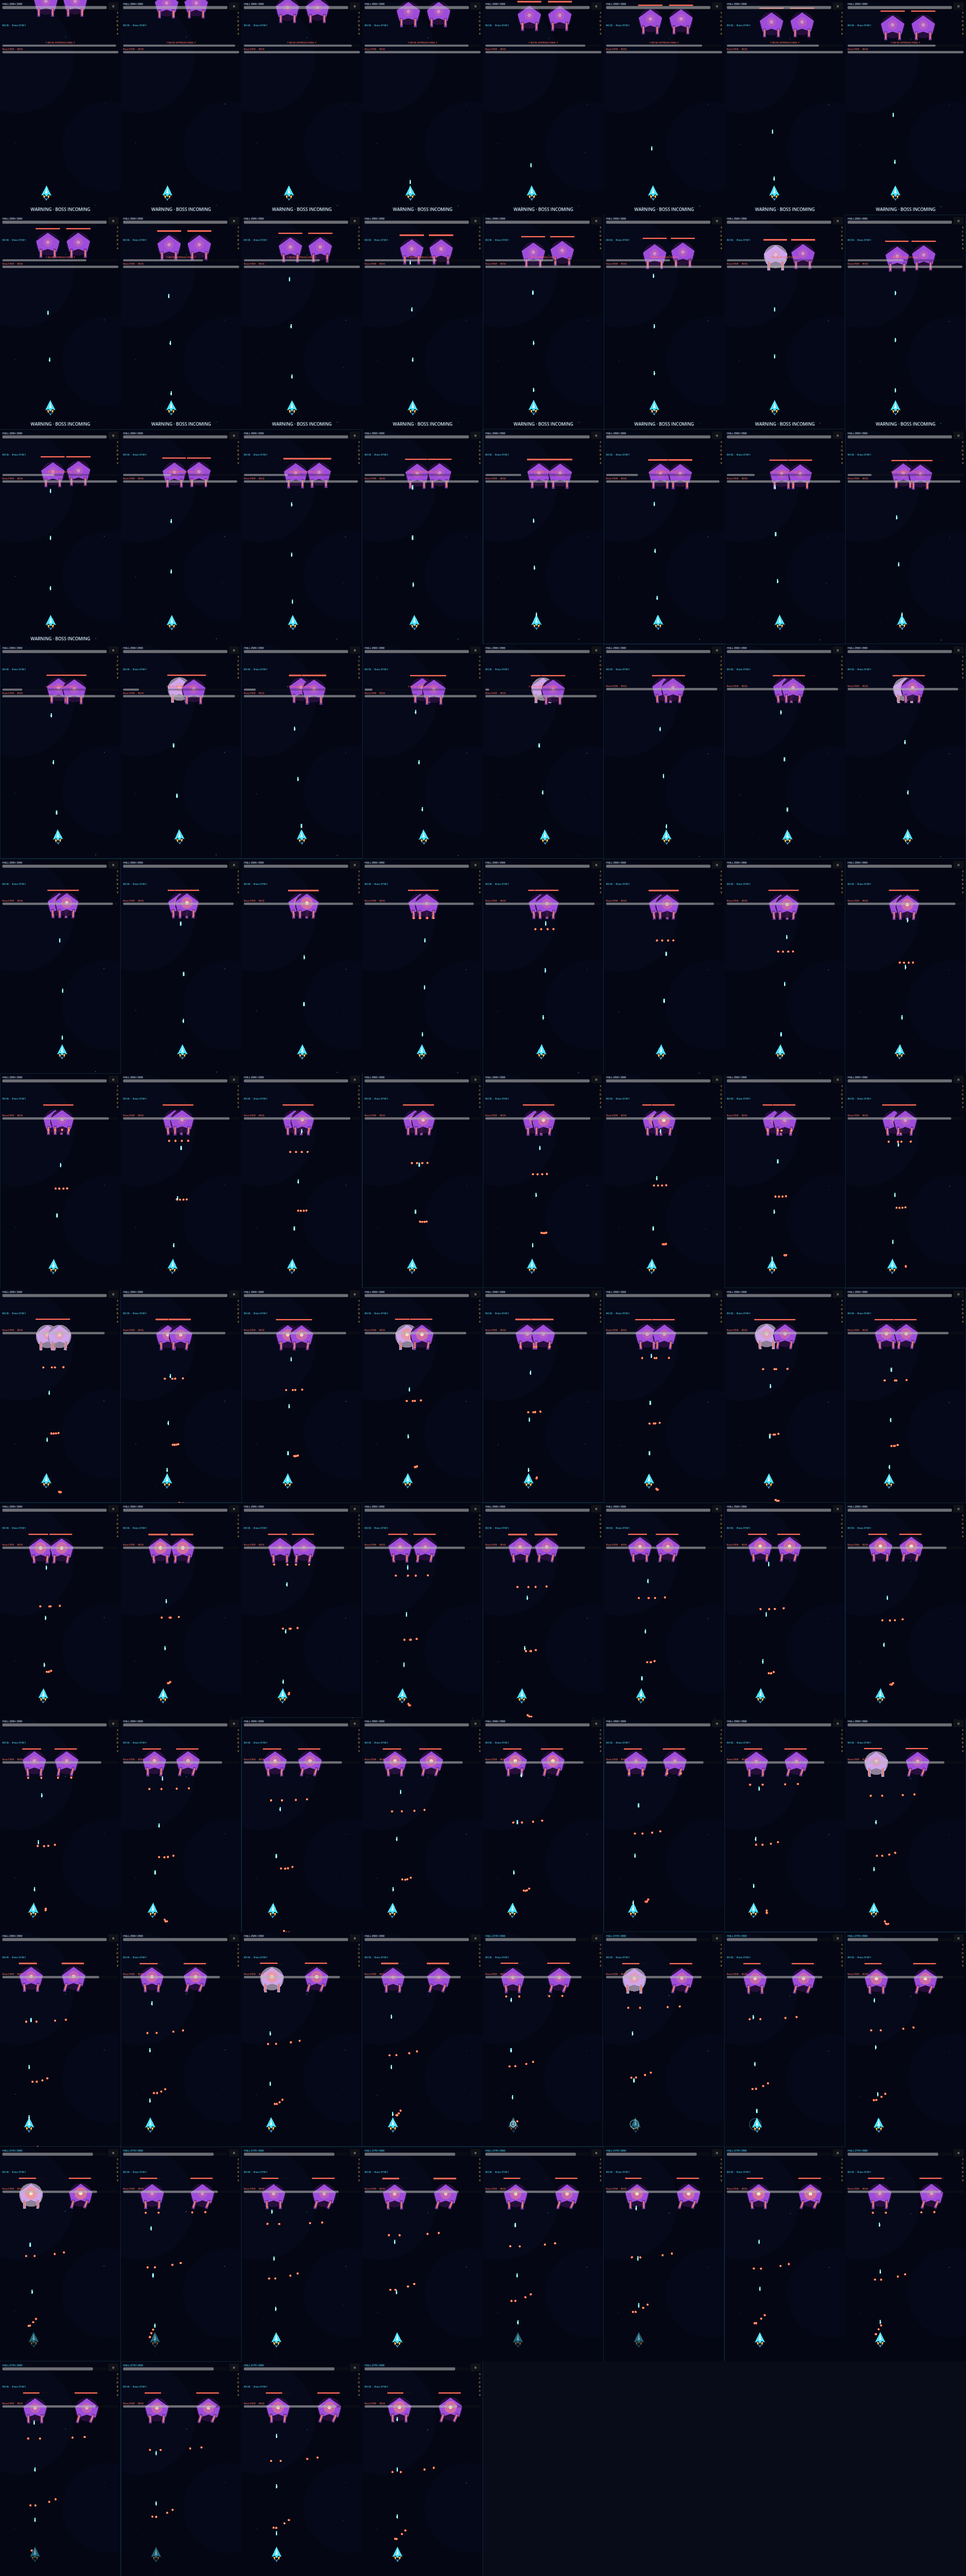
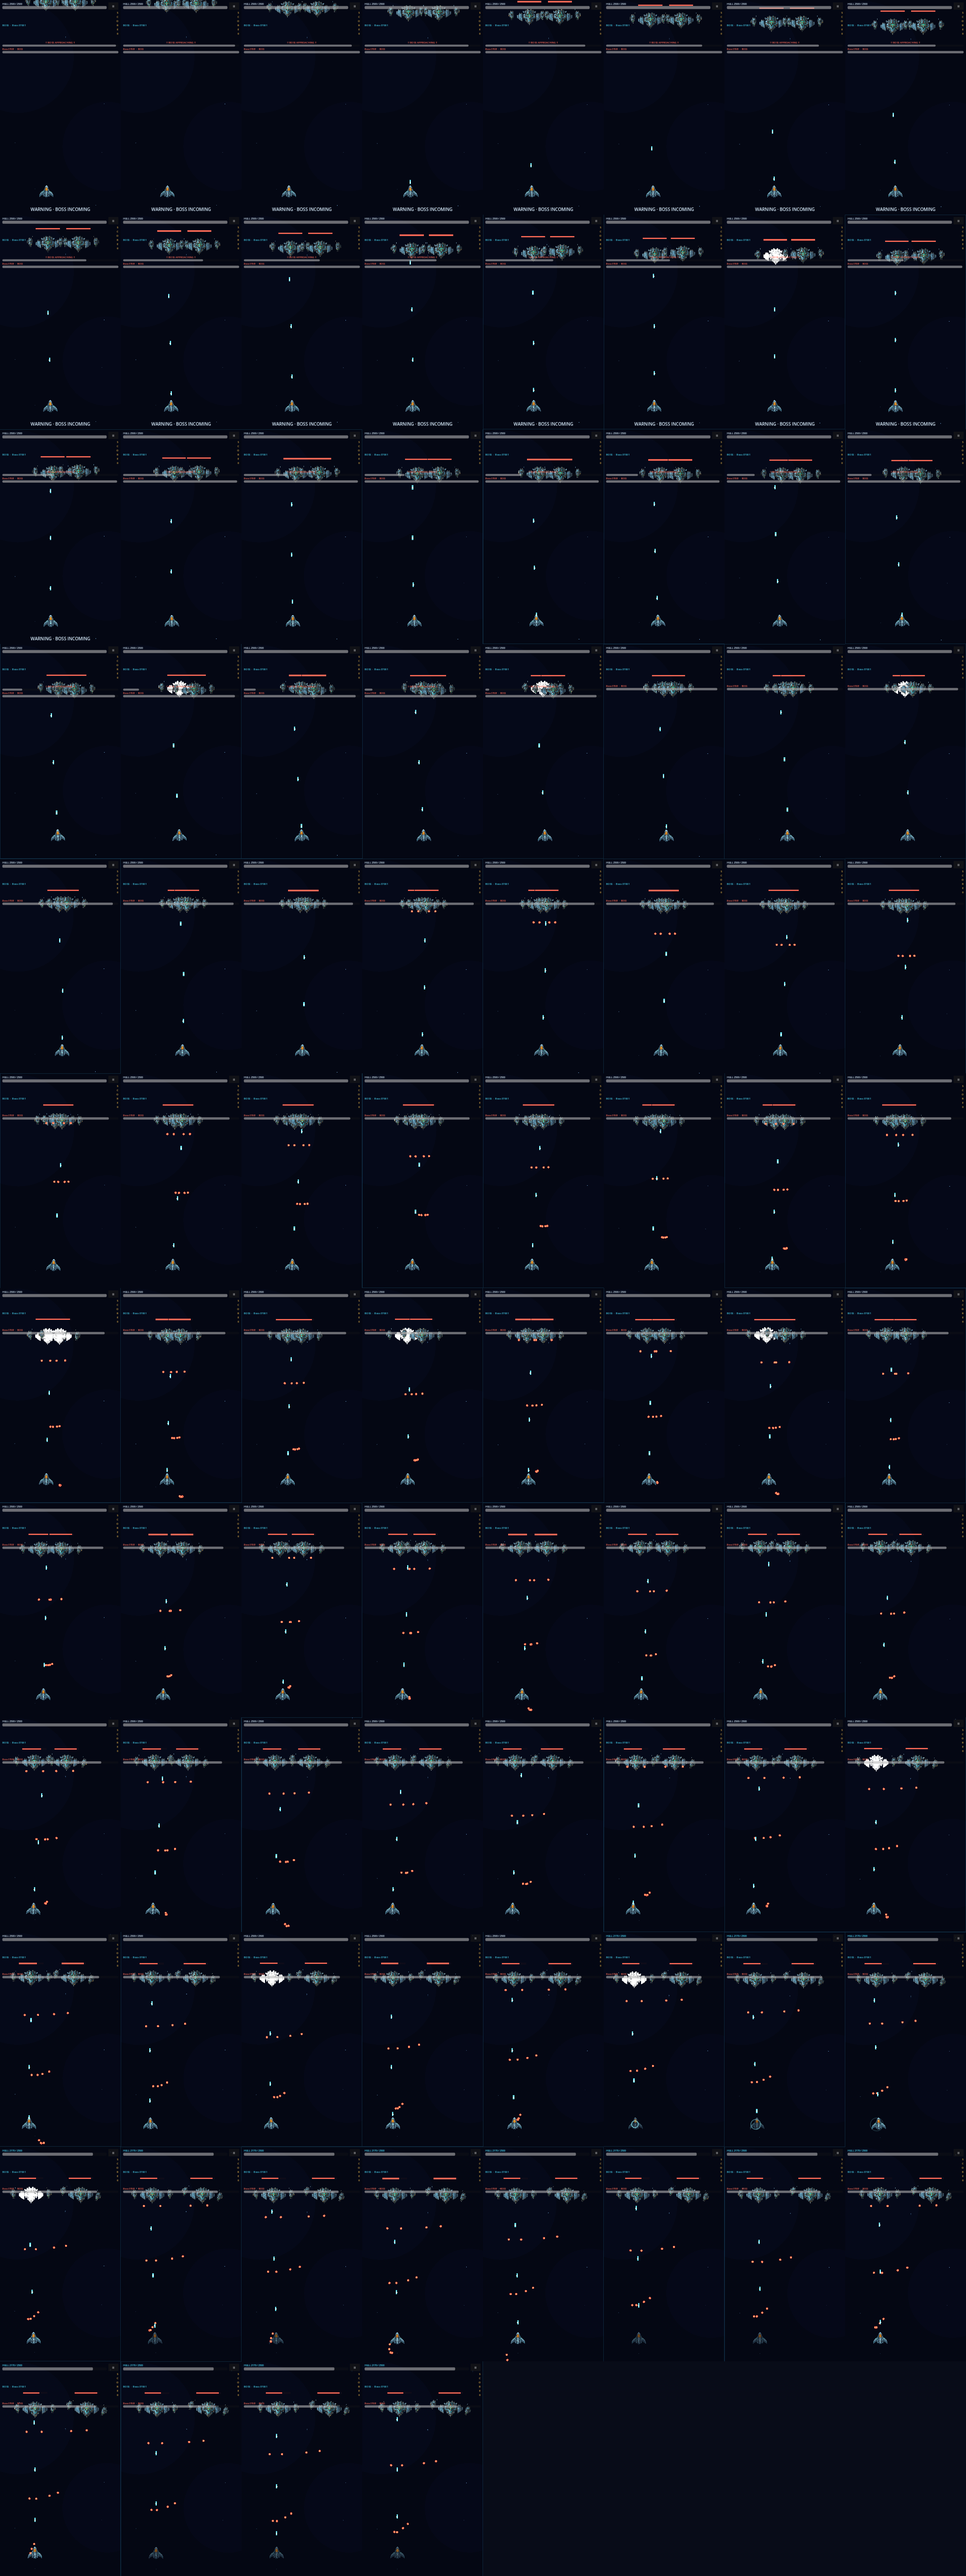
chore(motion): refresh ANIM-B frame evidence [skip ci]

diff --git a/motion/B/README.md b/motion/B/README.md
@@ -6,7 +6,7 @@ Each GIF is the acceptance clip; the `-sheet.png` file is the same frames laid o
 in order, so the motion can be read without playing the GIF.
 
 - Variant: ANIM-B - layered animation (ship body + glow layer, boss body/gun-l/gun-r/core, guns track the ship)
-- Art source: placeholder (no art package delivered yet, so these frames show the fallback art)
+- Art source: package
 - Capture rate: 12 fps
 - Frame width: 288px
 
